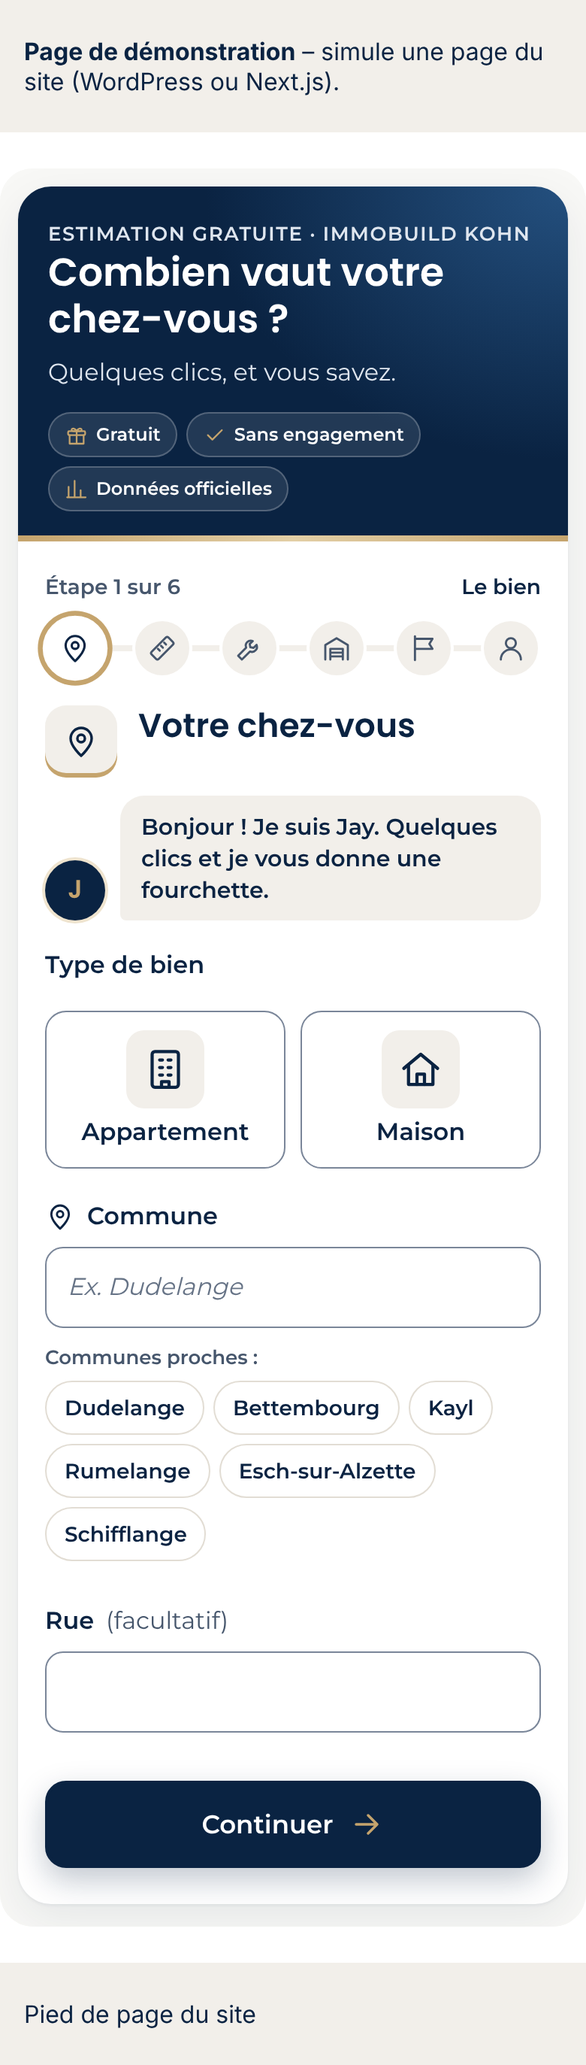
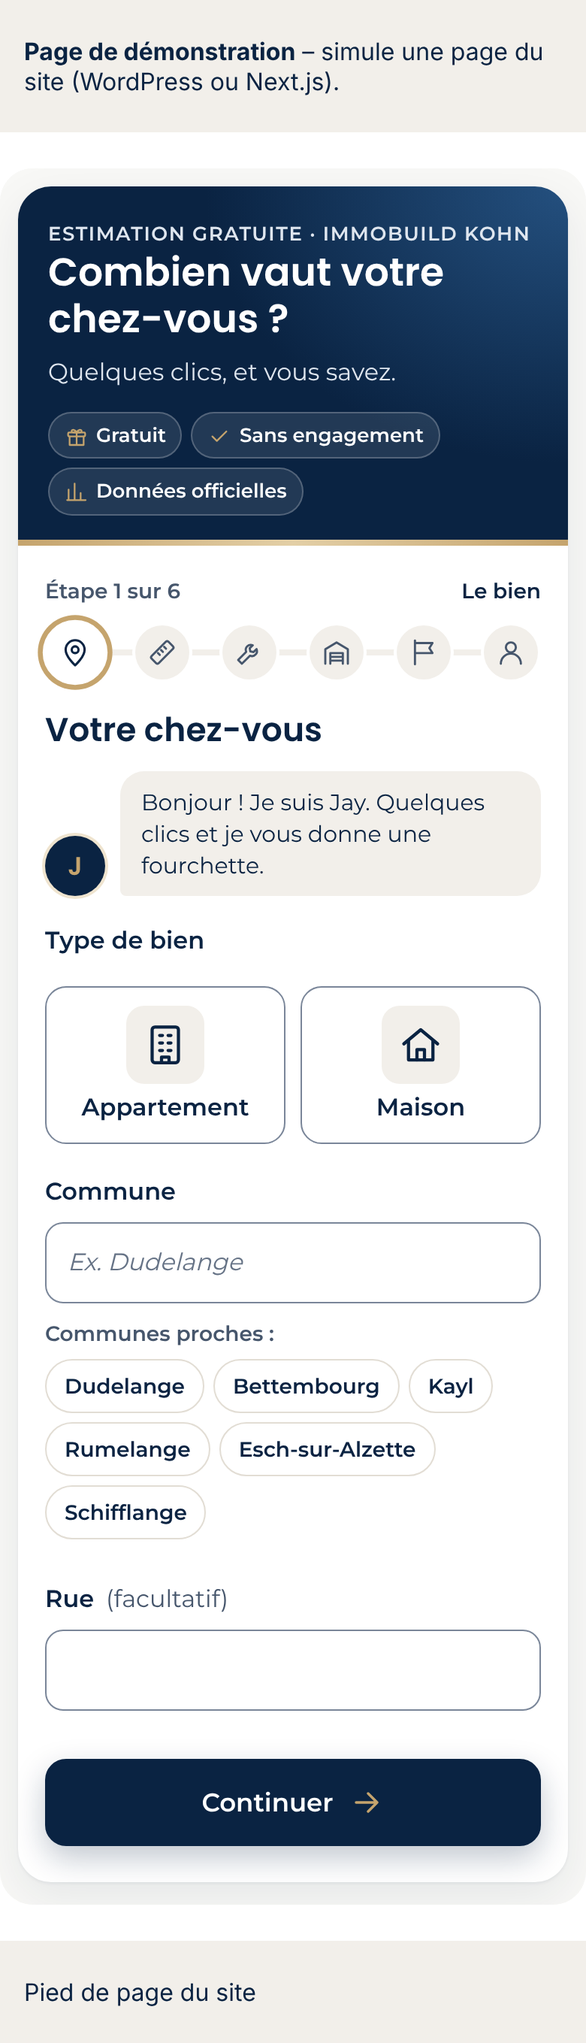
estimation-widget: revue design – moins de doublons, hiérarchie typographique, lisibilité
D'après la critique design (public 40–65 ans, mobile) :
- doublons retirés : tuile d'icône à côté du titre d'étape, icônes dans les
  libellés de champs (gardées dans les cartes de choix et les gros postes),
  résumé limité à une ligne de pastilles ; 1re question remontée de 16 à 61 px
- gras réservé aux titres, libellés et boutons : bulle de Jay, texte RGPD,
  sous-textes et engagements en poids normal ; flèche au lieu de l'étincelle
  sur « Voir mon estimation » ; engagements alignés à gauche
- textes d'information à 14 px minimum (source, jauge, chiffres de la
  commune, sous-textes des cartes, analyse, simulateur) ; exceptions à 13 px :
  pastilles de notes et extrémités de l'échelle énergie (largeur mobile)
- 49 tests, 0 erreur axe-core, Lighthouse mobile local 100/100/100

Claude-Session: https://claude.ai/code/session_01846hvutoHPqEEd264myZJw

diff --git a/estimation-widget/src/styles.css b/estimation-widget/src/styles.css
@@ -52,7 +52,7 @@ button { font: inherit; color: inherit; }
 @media (min-width: 560px) { .intro h1 { font-size: 2.125rem; } }
 .intro p { margin: 0; color: #dfe6ef; }
 .badges { list-style: none; display: flex; flex-wrap: wrap; gap: 6px; margin: 14px 0 0; padding: 0; }
-.badges li { display: inline-flex; align-items: center; gap: 5px; padding: 5px 10px; border-radius: 999px; background: rgba(255, 255, 255, 0.1); border: 1px solid rgba(255, 255, 255, 0.22); font-size: 0.75rem; font-weight: 600; white-space: nowrap; }
+.badges li { display: inline-flex; align-items: center; gap: 5px; padding: 5px 10px; border-radius: 999px; background: rgba(255, 255, 255, 0.1); border: 1px solid rgba(255, 255, 255, 0.22); font-size: 0.8125rem; font-weight: 600; white-space: nowrap; }
 .badges .ico { color: var(--gold); }
 
 /* Progression */
@@ -69,8 +69,8 @@ button { font: inherit; color: inherit; }
 .progress { padding-bottom: 18px; }
 
 /* Résumé en direct */
-.recap-bar { list-style: none; display: flex; flex-wrap: wrap; gap: 6px; margin: 0 0 18px; padding: 0; }
-.recap-bar li { display: inline-flex; align-items: center; gap: 6px; padding: 5px 10px; border-radius: 999px; background: var(--beige); font-size: 0.8125rem; font-weight: 600; }
+.recap-bar { list-style: none; display: flex; flex-wrap: nowrap; overflow: hidden; gap: 6px; margin: 0 0 18px; padding: 0; }
+.recap-bar li { display: inline-flex; align-items: center; gap: 6px; padding: 5px 10px; border-radius: 999px; background: var(--beige); font-size: 0.875rem; white-space: nowrap; font-weight: 600; }
 
 /* Titre d'étape */
 .step-head { display: flex; gap: 14px; align-items: flex-start; margin-bottom: 18px; }
@@ -96,7 +96,7 @@ button { font: inherit; color: inherit; }
 .optional { font-weight: 400; color: var(--muted); }
 .help { margin: -4px 0 10px; font-size: 0.875rem; color: var(--muted); }
 .row { display: grid; gap: 0 16px; grid-template-columns: 1fr 1fr; align-items: end; }
-.small { font-size: 0.8125rem; color: var(--muted); margin: 10px 0 0; }
+.small { font-size: 0.875rem; color: var(--muted); margin: 10px 0 0; }
 
 input[type='text'], input[type='email'], input[type='tel'], select, textarea {
   width: 100%; min-height: 54px; padding: 12px 14px; font: inherit; color: var(--text);
@@ -132,7 +132,7 @@ input[type='text']:focus, input[type='email']:focus, input[type='tel']:focus, se
 .option-icon { display: grid; place-items: center; width: 44px; height: 44px; flex: none; border-radius: 12px; background: var(--beige); color: var(--navy); transition: background 0.15s, color 0.15s; }
 .option-text { display: flex; flex-direction: column; min-width: 0; }
 .option-label { font-weight: 600; line-height: 1.3; }
-.option-hint { font-size: 0.8125rem; color: var(--muted); line-height: 1.35; margin-top: 2px; }
+.option-hint { font-size: 0.875rem; font-weight: 400; color: var(--muted); line-height: 1.35; margin-top: 2px; }
 .option-check { position: absolute; top: 8px; right: 8px; display: grid; place-items: center; width: 22px; height: 22px; border-radius: 50%; background: var(--gold); color: var(--navy); opacity: 0; transform: scale(0.4); transition: opacity 0.2s, transform 0.25s var(--ease); }
 .option input:checked + .option-box { background: var(--navy); border-color: var(--navy); color: var(--white); box-shadow: 0 8px 20px rgba(10, 35, 66, 0.22); }
 .option input:checked + .option-box .option-hint { color: #dfe6ef; }
@@ -175,7 +175,7 @@ input[type='text']:focus, input[type='email']:focus, input[type='tel']:focus, se
 .commune-canton { display: flex; align-items: center; gap: 6px; min-height: 0; margin: 8px 0 0; font-size: 0.875rem; font-weight: 600; color: var(--up); }
 .commune-canton:empty { display: none; }
 .quick { display: flex; flex-wrap: wrap; align-items: center; gap: 6px; margin-top: 10px; }
-.quick-label { font-size: 0.8125rem; color: var(--muted); font-weight: 600; width: 100%; }
+.quick-label { font-size: 0.875rem; color: var(--muted); font-weight: 600; width: 100%; }
 .pill { min-height: 36px; padding: 6px 12px; border-radius: 999px; border: 1.5px solid var(--line-soft); background: var(--white); font-size: 0.875rem; font-weight: 600; cursor: pointer; transition: background 0.15s, border-color 0.15s; }
 .pill:hover { border-color: var(--navy-3); }
 .pill.is-active { background: var(--navy); border-color: var(--navy); color: var(--white); }
@@ -225,7 +225,7 @@ input[type='text']:focus, input[type='email']:focus, input[type='tel']:focus, se
 .e-G .energy-bar { background: #ee7a4c; color: var(--navy); }
 .e-H .energy-bar { background: #c63a2c; color: #fff; }
 .e-I .energy-bar { background: #9c1f22; color: #fff; }
-.energy-scale-ends { display: flex; justify-content: space-between; margin: 6px 0 10px; font-size: 0.75rem; font-weight: 600; color: var(--muted); }
+.energy-scale-ends { display: flex; justify-content: space-between; margin: 6px 0 10px; font-size: 0.8125rem; font-weight: 600; color: var(--muted); }
 .energy-unknown { grid-column: 1 / -1; }
 .energy-unknown .energy-bar { height: 44px; align-items: center; gap: 8px; padding: 0 14px; background: var(--white); border-color: var(--line); color: var(--navy); font-family: var(--font-text); font-size: 0.9375rem; border-radius: 22px; }
 .energy-unknown:hover .energy-bar { transform: none; border-color: var(--navy-3); }
@@ -238,7 +238,7 @@ input[type='text']:focus, input[type='email']:focus, input[type='tel']:focus, se
 .rating { clear: both; display: grid; grid-template-columns: repeat(4, 1fr) 40px; gap: 5px; }
 @media (min-width: 420px) { .rating { gap: 8px; grid-template-columns: repeat(4, 1fr) 52px; } .rate-box { font-size: 0.8125rem; } }
 .rate { position: relative; display: block; cursor: pointer; }
-.rate-box { display: flex; flex-direction: column; align-items: center; justify-content: center; gap: 4px; min-height: 54px; padding: 6px 1px; border: 1.5px solid var(--line); border-radius: 12px; background: var(--white); font-size: 0.75rem; letter-spacing: -0.01em; font-weight: 600; text-align: center; transition: background 0.15s, transform 0.15s var(--ease), border-color 0.15s; }
+.rate-box { display: flex; flex-direction: column; align-items: center; justify-content: center; gap: 4px; min-height: 54px; padding: 6px 1px; border: 1.5px solid var(--line); border-radius: 12px; background: var(--white); font-size: 0.8125rem; letter-spacing: -0.01em; font-weight: 600; text-align: center; transition: background 0.15s, transform 0.15s var(--ease), border-color 0.15s; }
 .rate:hover .rate-box { border-color: var(--navy-3); transform: translateY(-1px); }
 .rate input:checked + .rate-box { background: var(--navy); border-color: var(--navy); color: var(--white); transform: translateY(-1px); box-shadow: 0 6px 14px rgba(10, 35, 66, 0.2); }
 .rate input:focus-visible + .rate-box { outline: 3px solid var(--navy); outline-offset: 2px; }
@@ -276,7 +276,7 @@ input[type='text']:focus, input[type='email']:focus, input[type='tel']:focus, se
 
 /* Téléphone, cases */
 .phone-row { display: grid; grid-template-columns: 112px 1fr; gap: 10px; }
-.check { display: flex; gap: 12px; align-items: flex-start; cursor: pointer; font-weight: 500; font-size: 0.9375rem; }
+.check { display: flex; gap: 12px; align-items: flex-start; cursor: pointer; font-weight: 400; font-size: 0.9375rem; line-height: 1.5; }
 .check input { width: 24px; height: 24px; margin: 1px 0 0; flex: none; accent-color: var(--navy); }
 .check a { color: var(--navy); font-weight: 600; }
 .trust { list-style: none; margin: 0 0 6px; padding: 0; display: flex; flex-wrap: wrap; gap: 6px 14px; }
@@ -316,7 +316,7 @@ input[type='text']:focus, input[type='email']:focus, input[type='tel']:focus, se
 @media (min-width: 560px) { .result > :not(.result-hero) { margin-left: 36px; margin-right: 36px; } }
 .result-hero { background: radial-gradient(130% 120% at 100% 0%, var(--navy-3) 0%, var(--navy) 60%); color: var(--white); padding: 16px 18px 20px; text-align: center; position: relative; margin-bottom: 0; }
 .result-hero::after { content: ''; position: absolute; left: 0; right: 0; bottom: 0; height: 4px; background: linear-gradient(90deg, var(--gold), #e3cfa6 50%, var(--gold)); }
-.sent-note { display: inline-flex; align-items: center; gap: 6px; margin: 0 0 8px; padding: 4px 10px; border-radius: 999px; background: rgba(255, 255, 255, 0.12); font-size: 0.8125rem; font-weight: 600; color: #dfe6ef; }
+.sent-note { display: inline-flex; align-items: center; gap: 6px; margin: 0 0 8px; padding: 4px 10px; border-radius: 999px; background: rgba(255, 255, 255, 0.12); font-size: 0.875rem; font-weight: 600; color: #dfe6ef; }
 .sent-note .ico { color: var(--gold); }
 .result-hero .step-title { color: var(--white); font-size: 1.3125rem; }
 .hero-meta { margin: 2px 0 10px; color: #dfe6ef; font-size: 0.9375rem; }
@@ -345,9 +345,9 @@ input[type='text']:focus, input[type='email']:focus, input[type='tel']:focus, se
 .value-label { font-weight: 600; font-size: 0.875rem; }
 .value-amount { font-family: var(--font-title); font-size: 1.25rem; font-weight: 600; margin: 2px 0 !important; font-variant-numeric: tabular-nums; }
 @media (min-width: 560px) { .value-amount { font-size: 1.5rem; } }
-.value-text { color: var(--muted); font-size: 0.8125rem; line-height: 1.35; }
+.value-text { color: var(--muted); font-size: 0.875rem; line-height: 1.35; }
 
-.reliability { display: flex; gap: 10px; align-items: center; margin-top: 10px !important; padding: 8px 12px; border-radius: var(--radius); background: var(--offwhite); font-size: 0.8125rem; line-height: 1.4; }
+.reliability { display: flex; gap: 10px; align-items: center; margin-top: 10px !important; padding: 8px 12px; border-radius: var(--radius); background: var(--offwhite); font-size: 0.875rem; line-height: 1.4; }
 .reliability p { margin: 0; color: var(--muted); }
 .reliability strong { color: var(--navy); }
 .rel-bars { display: flex; gap: 3px; align-items: flex-end; height: 22px; margin-top: 2px; }
@@ -359,7 +359,7 @@ input[type='text']:focus, input[type='email']:focus, input[type='tel']:focus, se
 .rel-medium .rel-bars i:nth-child(-n + 2) { background: var(--navy); }
 .rel-low .rel-bars i:nth-child(1) { background: var(--down); }
 
-.source { font-size: 0.75rem; line-height: 1.45; color: var(--muted); margin-top: 10px !important; margin-bottom: 4px !important; }
+.source { font-size: 0.875rem; line-height: 1.45; color: var(--muted); margin-top: 10px !important; margin-bottom: 4px !important; }
 .source a { color: var(--navy); }
 .disclaimer { font-size: 0.875rem; line-height: 1.4; font-weight: 600; margin-top: 0 !important; margin-bottom: 12px !important; }
 .result > .btn { display: flex; width: auto; }
@@ -373,22 +373,22 @@ input[type='text']:focus, input[type='email']:focus, input[type='tel']:focus, se
 .gauge-track { position: absolute; left: 0; right: 0; top: 52px; height: 10px; border-radius: 5px; background: linear-gradient(90deg, #dfe6ef, var(--navy-3) 70%, var(--navy)); }
 .gauge-mark { position: absolute; left: var(--pos, 50%); top: 0; bottom: 0; width: 0; }
 .gauge-mark::before { content: ''; position: absolute; left: -2px; width: 4px; border-radius: 2px; }
-.gauge-mark span { position: absolute; transform: translateX(-50%); white-space: nowrap; font-size: 0.75rem; line-height: 1.25; text-align: center; padding: 4px 8px; border-radius: 8px; }
+.gauge-mark span { position: absolute; transform: translateX(-50%); white-space: nowrap; font-size: 0.875rem; line-height: 1.25; text-align: center; padding: 4px 8px; border-radius: 8px; }
 .mark-you::before { top: 40px; height: 34px; background: var(--gold); box-shadow: 0 0 0 2px var(--white); }
 .mark-you span { top: 0; background: var(--navy); color: var(--white); }
 .mark-avg::before { top: 48px; height: 18px; background: var(--white); box-shadow: 0 0 0 2px var(--navy); }
 .mark-avg span { bottom: 0; background: var(--beige); color: var(--navy); }
 .gauge-mark.edge-left span { transform: translateX(-12px); }
 .gauge-mark.edge-right span { transform: translateX(calc(-100% + 12px)); }
-.gauge-ends { display: flex; justify-content: space-between; font-size: 0.75rem; color: var(--muted); font-weight: 600; margin-top: 4px; }
+.gauge-ends { display: flex; justify-content: space-between; font-size: 0.875rem; color: var(--muted); font-weight: 600; margin-top: 4px; }
 
 .stats { display: grid; grid-template-columns: 1fr 1fr; gap: 10px; }
 .stat { padding: 12px; border-radius: 12px; background: var(--offwhite); }
 .stat p { margin: 0; }
-.stat-label { font-size: 0.8125rem; font-weight: 600; color: var(--muted); }
+.stat-label { font-size: 0.875rem; font-weight: 600; color: var(--muted); }
 .stat-value { font-family: var(--font-title); font-weight: 600; font-size: 1.125rem; font-variant-numeric: tabular-nums; }
-.stat-value small { font-family: var(--font-text); font-size: 0.75rem; color: var(--muted); }
-.stat-sub { font-size: 0.75rem; color: var(--muted); }
+.stat-value small { font-family: var(--font-text); font-size: 0.875rem; color: var(--muted); }
+.stat-sub { font-size: 0.875rem; color: var(--muted); }
 .stat-you { background: var(--navy); }
 .stats .stat-you:nth-child(3), .stats .stat-you:nth-child(1) { grid-column: 1 / -1; }
 .stat-you .stat-label, .stat-you .stat-sub, .stat-you small { color: #dfe6ef; }
@@ -471,7 +471,7 @@ input[type='text']:focus, input[type='email']:focus, input[type='tel']:focus, se
 .spinner-dark { width: 20px; height: 20px; border: 3px solid var(--line-soft); border-top-color: var(--navy); border-radius: 50%; animation: spin 0.8s linear infinite; }
 .astep-text p { margin: 0; }
 .astep-title { font-weight: 600; line-height: 1.35; padding-top: 6px; }
-.astep-detail { font-size: 0.8125rem; color: var(--muted); line-height: 1.4; max-height: 0; overflow: hidden; transition: max-height 0.35s var(--ease); }
+.astep-detail { font-size: 0.875rem; color: var(--muted); line-height: 1.4; max-height: 0; overflow: hidden; transition: max-height 0.35s var(--ease); }
 .astep.is-active .astep-detail, .astep.is-done .astep-detail { max-height: 60px; margin-top: 2px; }
 
 /* ---------- Simulateur « Et si… ? » ---------- */
@@ -481,11 +481,11 @@ input[type='text']:focus, input[type='email']:focus, input[type='tel']:focus, se
 .whatif .field { margin-bottom: 16px; }
 .whatif .choices-chips .options { gap: 6px; }
 .whatif .choices-chips .option-box { min-height: 40px; padding: 8px 12px; }
-.whatif .choices-chips .option-label { font-size: 0.8125rem; }
+.whatif .choices-chips .option-label { font-size: 0.875rem; }
 .works { display: grid; grid-template-columns: 1fr 1fr; gap: 8px; }
 .work { position: relative; display: block; cursor: pointer; }
 .work input { position: absolute; opacity: 0; width: 1px; height: 1px; margin: 0; }
-.work-box { position: relative; display: flex; align-items: center; gap: 8px; min-height: 48px; padding: 8px 32px 8px 10px; border: 1.5px solid var(--line); border-radius: 12px; background: var(--white); font-size: 0.8125rem; font-weight: 600; line-height: 1.25; transition: background 0.15s, border-color 0.15s, transform 0.15s var(--ease); }
+.work-box { position: relative; display: flex; align-items: center; gap: 8px; min-height: 48px; padding: 8px 32px 8px 10px; border: 1.5px solid var(--line); border-radius: 12px; background: var(--white); font-size: 0.875rem; font-weight: 600; line-height: 1.25; transition: background 0.15s, border-color 0.15s, transform 0.15s var(--ease); }
 .work:hover .work-box { border-color: var(--navy-3); transform: translateY(-1px); }
 .work-plus, .work-check { position: absolute; right: 8px; top: 50%; margin-top: -10px; display: grid; place-items: center; width: 20px; height: 20px; border-radius: 50%; }
 .work-plus { background: var(--beige); color: var(--navy); }
@@ -497,7 +497,7 @@ input[type='text']:focus, input[type='email']:focus, input[type='tel']:focus, se
 .whatif-out { margin-top: 4px; padding: 14px 16px; border-radius: 14px; background: var(--navy); color: var(--white); text-align: center; }
 .whatif-out.flash { animation: pop 0.35s var(--ease); }
 .whatif-out p { margin: 0; }
-.wo-label { font-size: 0.8125rem; color: #dfe6ef; }
+.wo-label { font-size: 0.875rem; color: #dfe6ef; }
 .wo-value { font-family: var(--font-title); font-weight: 600; font-size: 1.625rem; line-height: 1.3; font-variant-numeric: tabular-nums; }
 .wo-delta { display: inline-block; vertical-align: middle; margin-left: 6px; padding: 2px 10px; border-radius: 999px; font-family: var(--font-text); font-size: 0.875rem; font-weight: 700; }
 .wo-delta:empty { display: none; }
@@ -517,7 +517,7 @@ input[type='text']:focus, input[type='email']:focus, input[type='tel']:focus, se
 .step-head { margin-bottom: 12px; }
 .coach { display: flex; align-items: flex-end; gap: 10px; margin: 0 0 18px; }
 .avatar-sm { width: 40px; height: 40px; font-size: 1.0625rem; box-shadow: 0 0 0 2px var(--gold-soft); }
-.coach-bubble { position: relative; margin: 0; padding: 10px 14px; border-radius: 16px 16px 16px 4px; background: var(--beige); font-weight: 600; font-size: 0.9375rem; line-height: 1.4; }
+.coach-bubble { position: relative; margin: 0; padding: 10px 14px; border-radius: 16px 16px 16px 4px; background: var(--beige); font-weight: 400; font-size: 0.9375rem; line-height: 1.4; }
 .coach-bubble.pop { animation: bubble 0.45s var(--ease); }
 @keyframes bubble { 0% { transform: scale(0.92) translateY(4px); opacity: 0.4; } 60% { transform: scale(1.03); opacity: 1; } 100% { transform: none; } }
 
@@ -528,7 +528,7 @@ details.recap summary::-webkit-details-marker { display: none; }
 details.recap summary::after { content: '+'; margin-left: auto; font-size: 1.25rem; font-weight: 400; }
 details.recap[open] summary::after { content: '−'; }
 details.recap ul { padding: 0 14px 10px; }
-p.trust { display: flex; align-items: flex-start; justify-content: center; gap: 8px; text-align: center; margin: 4px 0 0; font-size: 0.8125rem; color: var(--muted); font-weight: 500; }
+p.trust { display: flex; align-items: flex-start; justify-content: flex-start; gap: 8px; text-align: left; font-weight: 400; margin: 4px 0 0; font-size: 0.875rem; color: var(--muted); font-weight: 500; }
 p.trust .ico { color: var(--up); }
 
 /* ---------- Sceau doré qui se dessine (à la place de confettis) ---------- */
@@ -543,3 +543,8 @@ p.trust .ico { color: var(--up); }
 
 .recap-short { font-weight: 500; font-size: 0.875rem; color: var(--muted); }
 details.recap summary { min-height: 56px; padding-top: 8px; padding-bottom: 8px; }
+
+/* Revue design : texte légal en poids normal, engagements alignés à gauche avec l'icône */
+.field > label.check { font-weight: 400; align-items: flex-start; }
+p.trust { flex-wrap: nowrap; }
+p.trust .ico { margin-top: 2px; flex: none; }

diff --git a/estimation-widget/src/ui/steps.ts b/estimation-widget/src/ui/steps.ts
@@ -78,7 +78,7 @@ type Opt = { value: string; label: string; icon?: string; hint?: string };
 function choices(ctx: Ctx, name: string, legend: string, options: Opt[], variant: 'cards' | 'tiles' | 'chips' | 'list' = 'cards', legendIcon?: string): string {
   const err = ctx.e[name] ? ` aria-describedby="${name}-error"` : '';
   return `<fieldset class="field choices choices-${variant} n${options.length}${hasErr(ctx, name)}" id="${name}" data-field="${name}"${err}>
-  <legend>${legendIcon ? icon(legendIcon, 'ico ico-legend') : ''}<span>${esc(legend)}</span></legend>
+  <legend><span>${esc(legend)}</span></legend>
   ${errorMessage(ctx, name)}
   <div class="options">
     ${options
@@ -101,7 +101,7 @@ function choices(ctx: Ctx, name: string, legend: string, options: Opt[], variant
 function stepper(ctx: Ctx, name: string, label: string, lim: { min: number; max: number }, ico?: string): string {
   const val = String(ctx.v[name] ?? '');
   return `<div class="field stepper-field${hasErr(ctx, name)}" data-field="${name}">
-  <label for="${name}">${ico ? icon(ico, 'ico ico-label') : ''}<span>${esc(label)}</span></label>
+  <label for="${name}"><span>${esc(label)}</span></label>
   <div class="stepper">
     <button type="button" class="stepper-btn" data-stepper="${name}" data-delta="-1" data-min="${lim.min}" data-max="${lim.max}" aria-label="${esc(ctx.t('fields.decrease', { label }))}">${icon('moins')}</button>
     <input type="text" id="${name}" name="${name}" value="${esc(val)}" inputmode="numeric" autocomplete="off" placeholder="–" maxlength="3" aria-required="true"${invalid(ctx, name)}${describedBy(ctx, name, false)}>
@@ -117,7 +117,7 @@ function slider(ctx: Ctx, name: string, label: string, sliderLabel: string, o: {
   const n = Number(raw.replace(',', '.'));
   const pos = raw !== '' && Number.isFinite(n) ? Math.min(o.max, Math.max(o.min, n)) : o.min;
   return `<div class="field slider-field${hasErr(ctx, name)}" data-field="${name}">
-  <label for="${name}">${o.ico ? icon(o.ico, 'ico ico-label') : ''}<span>${labelText(ctx, label, o.optional)}</span></label>
+  <label for="${name}"><span>${labelText(ctx, label, o.optional)}</span></label>
   ${o.help ? `<p class="help" id="${name}-help">${esc(o.help)}</p>` : ''}
   <div class="slider-row">
     <div class="input-wrap has-suffix slider-number"><input type="text" id="${name}" name="${name}" value="${esc(raw)}" inputmode="decimal" autocomplete="off" maxlength="6" aria-required="true"${invalid(ctx, name)}${describedBy(ctx, name, !!o.help)}><span class="suffix" aria-hidden="true">m²</span></div>
@@ -205,7 +205,7 @@ function step1(ctx: Ctx): string {
   const canton = COMMUNES.find((c) => c.name === v.commune)?.canton;
   return `${choices(ctx, 'type', t('fields.type'), opts(t, 'fields.typeOptions', ['appartement', 'maison'], { appartement: 'appartement', maison: 'maison' }), 'tiles')}
 <div class="field combobox${hasErr(ctx, 'commune')}" data-field="commune">
-  <label for="commune" id="commune-label">${icon('epingle', 'ico ico-label')}<span>${esc(t('fields.commune'))}</span></label>
+  <label for="commune" id="commune-label"><span>${esc(t('fields.commune'))}</span></label>
   <div class="combo">
     <input type="text" id="commune" name="commune" value="${esc(v.commune ?? '')}" role="combobox" aria-autocomplete="list" aria-expanded="false" aria-controls="commune-list" autocomplete="off" spellcheck="false" placeholder="${esc(t('fields.communePlaceholder'))}" aria-required="true"${invalid(ctx, 'commune')}${describedBy(ctx, 'commune', false)}>
     <ul id="commune-list" role="listbox" aria-labelledby="commune-label" hidden></ul>
@@ -227,7 +227,7 @@ function energyScale(ctx: Ctx): string {
   const err = ctx.e[name] ? ` aria-describedby="${name}-error energie-help"` : ' aria-describedby="energie-help"';
   const letters = ENERGIES.filter((e) => e !== 'inconnu');
   return `<fieldset class="field energy${hasErr(ctx, name)}" id="${name}" data-field="${name}"${err}>
-  <legend>${icon('feuille', 'ico ico-legend')}<span>${esc(t('fields.energieLegend'))}</span></legend>
+  <legend><span>${esc(t('fields.energieLegend'))}</span></legend>
   <p class="help" id="energie-help">${esc(t('fields.energieHelp'))}</p>
   ${errorMessage(ctx, name)}
   <div class="energy-scale-ends" aria-hidden="true"><span>${esc(t('fields.energieLow'))}</span><span>${esc(t('fields.energieHigh'))}</span></div>

diff --git a/estimation-widget/src/main.ts b/estimation-widget/src/main.ts
@@ -110,7 +110,7 @@ function progress(): string {
 
 function recapBar(): string {
   if (state.step < 2) return '';
-  const items = recapItems(t, state.values).slice(0, 4);
+  const items = recapItems(t, state.values).slice(0, 2);
   if (!items.length) return '';
   return `<ul class="recap-bar" aria-label="${esc(t('recap.title'))}">${items.map((i) => `<li>${icon(i.icon, 'ico ico-xs')}<span>${esc(i.text)}</span></li>`).join('')}</ul>`;
 }
@@ -154,7 +154,6 @@ function render(focus = true) {
   <form id="form" novalidate>
     <div class="step-body anim-${state.direction}">
       <div class="step-head">
-        <span class="step-ico">${icon(STEP_ICONS[s - 1])}</span>
         <div>
           <h2 class="step-title" id="step-title" tabindex="-1">${esc(t(`steps.${s}.title`))}</h2>
 
@@ -167,7 +166,7 @@ function render(focus = true) {
     <div class="actions">
       ${
         s === TOTAL
-          ? `<button type="submit" class="btn btn-primary btn-block btn-go" ${state.sending ? 'disabled aria-busy="true"' : ''}>${state.sending ? `<span class="spinner" aria-hidden="true"></span>${esc(t('nav.sending'))}` : `${esc(t('nav.submit'))}${icon('neuf')}`}</button>`
+          ? `<button type="submit" class="btn btn-primary btn-block btn-go" ${state.sending ? 'disabled aria-busy="true"' : ''}>${state.sending ? `<span class="spinner" aria-hidden="true"></span>${esc(t('nav.sending'))}` : `${esc(t('nav.submit'))}<span class="arrow">${icon('fleche')}</span>`}</button>`
           : `<button type="submit" class="btn btn-primary btn-block btn-go">${esc(t('nav.next'))}<span class="arrow">${icon('fleche')}</span></button>`
       }
       ${s > 1 ? `<button type="button" class="btn btn-ghost" data-action="back" ${state.sending ? 'disabled' : ''}>${icon('fleche')}<span>${esc(t('nav.back'))}</span></button>` : ''}

diff --git a/estimation-widget/src/ui/whatif.ts b/estimation-widget/src/ui/whatif.ts
@@ -20,7 +20,7 @@ export function renderWhatIf(t: T, base: WhatIfBase, marketText: string): string
   <h3 id="whatif-title">${icon('neuf', 'ico ico-sm')}<span>${esc(t('whatif.title'))}</span></h3>
   <p class="small whatif-intro">${esc(t('whatif.text'))}</p>
   <fieldset class="field energy" id="wi_energie">
-    <legend>${icon('feuille', 'ico ico-legend')}<span>${esc(t('whatif.energy'))}</span></legend>
+    <legend><span>${esc(t('whatif.energy'))}</span></legend>
     <div class="energy-scale-ends" aria-hidden="true"><span>${esc(t('fields.energieLow'))}</span><span>${esc(t('fields.energieHigh'))}</span></div>
     <div class="energy-bars">
       ${letters
@@ -31,7 +31,7 @@ export function renderWhatIf(t: T, base: WhatIfBase, marketText: string): string
     </div>
   </fieldset>
   <fieldset class="field choices choices-chips n5" id="wi_etat">
-    <legend>${icon('bon', 'ico ico-legend')}<span>${esc(t('whatif.etat'))}</span></legend>
+    <legend><span>${esc(t('whatif.etat'))}</span></legend>
     <div class="options">
       ${ETATS.map(
         (e) => `<label class="option"><input type="radio" name="wi_etat" value="${e}"${base.etat === e ? ' checked' : ''}><span class="option-box"><span class="option-text"><span class="option-label">${esc(t(`fields.etatOptions.${e}`))}</span></span></span></label>`,
@@ -41,7 +41,7 @@ export function renderWhatIf(t: T, base: WhatIfBase, marketText: string): string
   ${
     postes.length
       ? `<fieldset class="field" id="wi_works">
-    <legend>${icon('outils', 'ico ico-legend')}<span>${esc(t('whatif.works'))}</span></legend>
+    <legend><span>${esc(t('whatif.works'))}</span></legend>
     <div class="works">
       ${postes
         .map(
